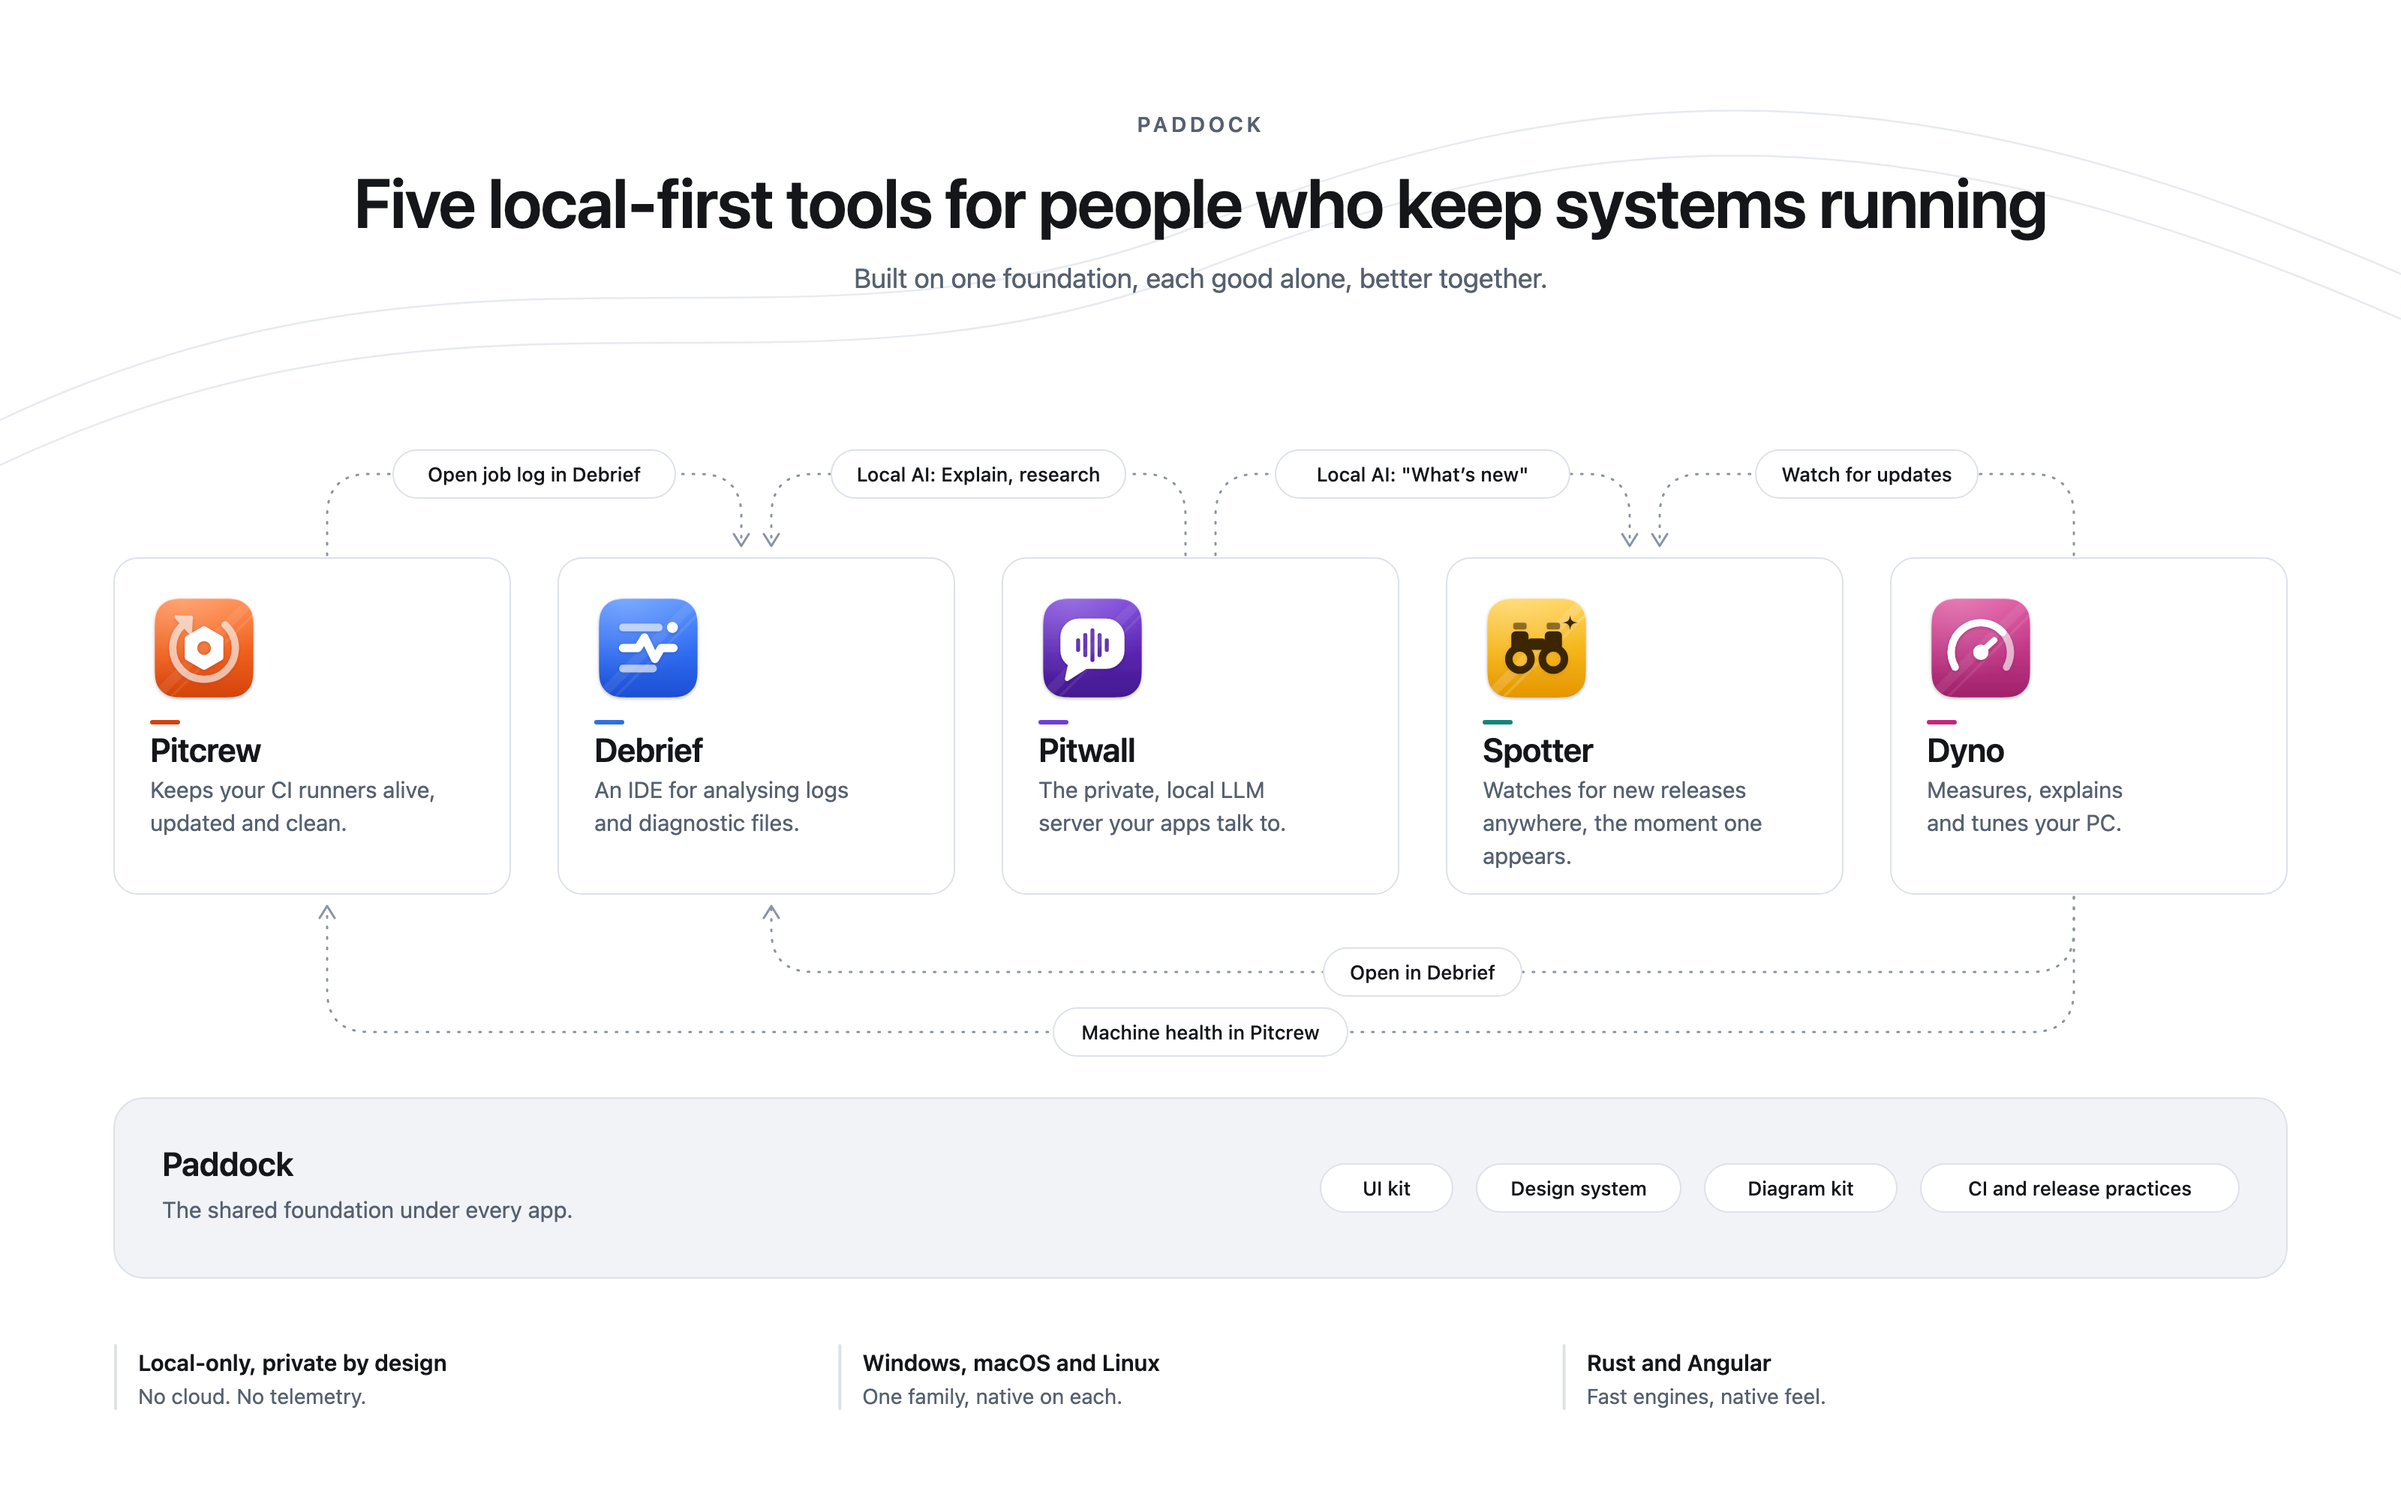
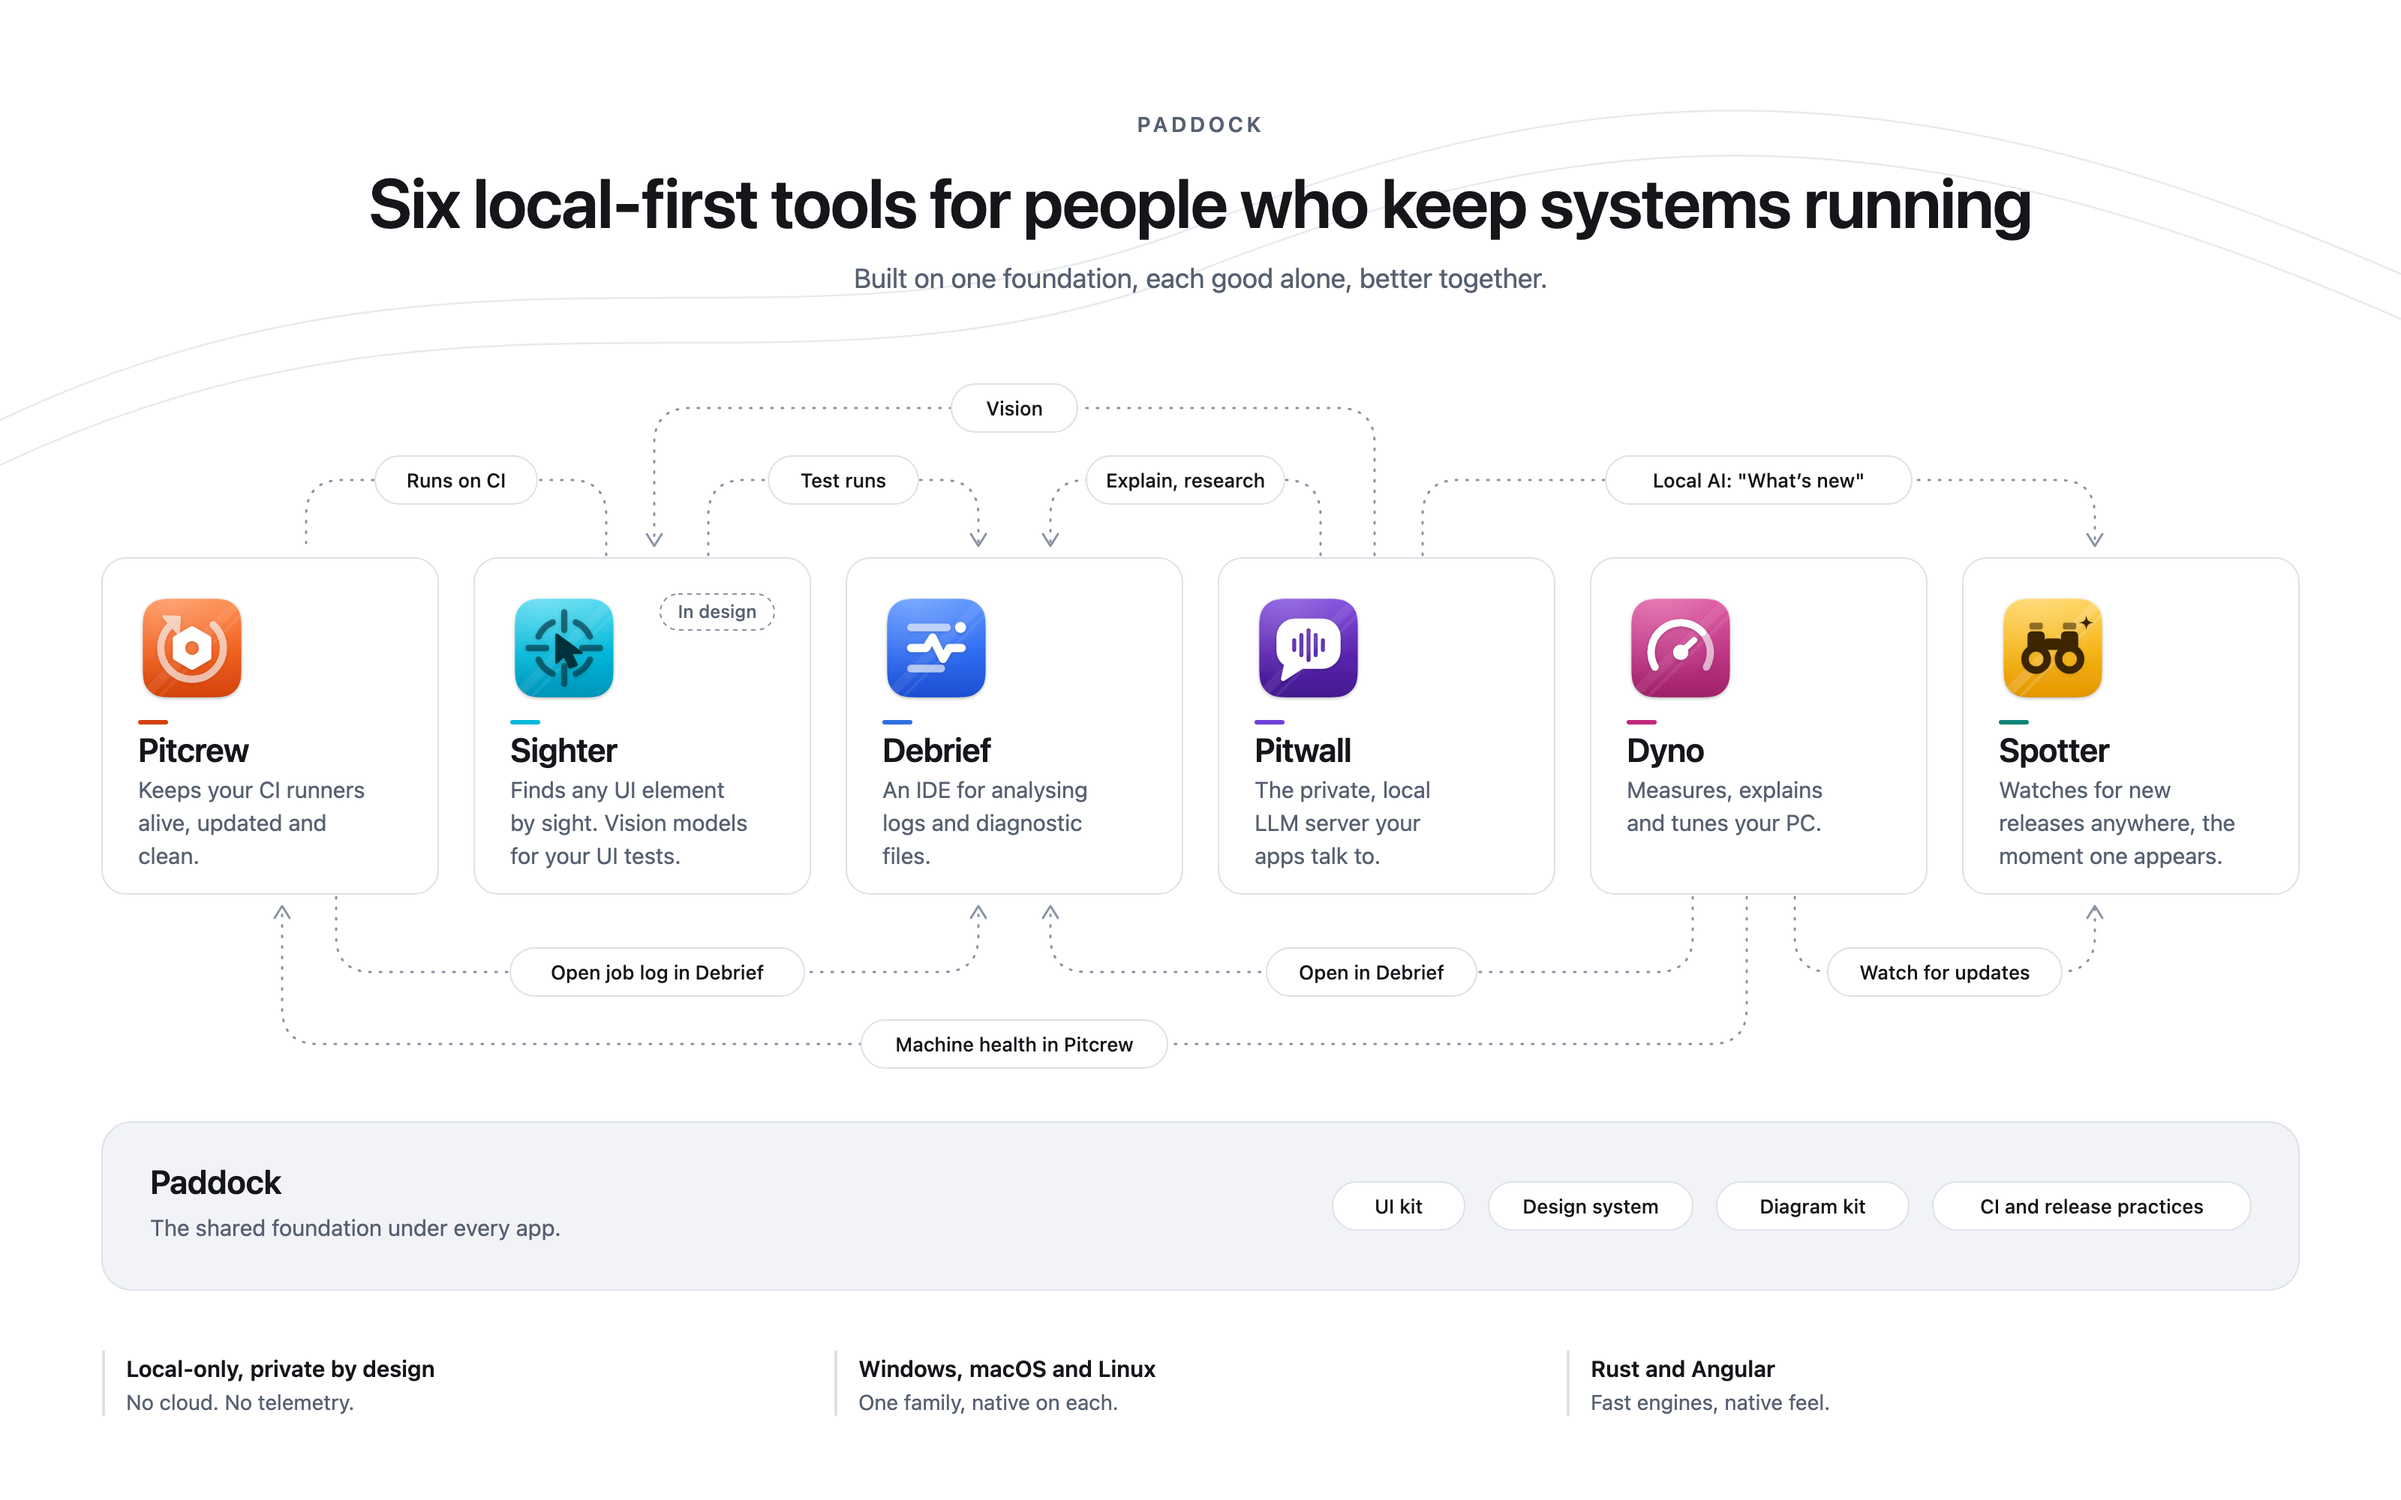
docs: add Sighter to the ecosystem image and overview [skip ci]

diff --git a/docs/ecosystem.md b/docs/ecosystem.md
@@ -1,10 +1,10 @@
 # The Paddock family
 
 <picture>
-  <img src="images/paddock-ecosystem.svg" alt="Paddock: Pitcrew, Debrief, Pitwall, Spotter and Dyno, five local-first apps connected by a few hand-offs and built on the shared Paddock foundation" width="100%">
+  <img src="images/paddock-ecosystem.svg" alt="Paddock: Pitcrew, Sighter, Debrief, Pitwall, Dyno and Spotter, six local-first apps connected by a few hand-offs and built on the shared Paddock foundation" width="100%">
 </picture>
 
-Five desktop apps for people who keep systems running, built on one shared foundation. Each is useful alone and better
+Six desktop apps for people who keep systems running, built on one shared foundation. Each is useful alone and better
 with the others. All run on **Windows, macOS and Linux**, are written in Rust with a Tauri shell and an Angular UI, and
 are **local only**: no cloud, no account, no telemetry.
 
@@ -38,6 +38,15 @@ The private, local LLM server your apps talk to. For anyone who wants AI in thei
 
 Repo: <https://dev.decryptology.net/decryp7/pitwall> · Status: in development.
 
+### Sighter
+Finds any UI element by sight. Record, label and train vision models that your UI tests can query. For engineers who test
+or automate desktop apps, including legacy ones with no accessibility tree.
+- Works from pixels alone, so custom-drawn UIs, remote sessions and old tools are covered.
+- A recorder, a labelling and training studio, and a local server your test scripts call.
+- Run bundles (video plus steps) that open next to the app's logs in Debrief.
+
+Repo: <https://dev.decryptology.net/decryp7/sighter> · Status: **in design**.
+
 ### Dyno
 Measures, explains and tunes your PC. For people who want to know why their machine is slow, and to fix it safely.
 - A background agent keeps history while the window is closed.
@@ -60,8 +69,11 @@ Repo: <https://dev.decryptology.net/decryp7/spotter> · Status: in development.
 | From | To | What |
 |---|---|---|
 | Pitwall | Debrief | Local AI for "Explain" and research |
+| Pitwall | Sighter | Vision for finding UI elements |
 | Pitwall | Spotter | Local AI for "What's new" summaries |
 | Pitcrew | Debrief | "Open job log in Debrief" |
+| Sighter | Debrief | Test runs: video plus steps, alongside the app's logs |
+| Sighter | Pitcrew | Runs on CI, on the runners Pitcrew keeps alive |
 | Dyno | Spotter | "Watch for updates" from the software inventory |
 | Dyno | Debrief | "Open in Debrief" for issues |
 | Dyno | Pitcrew | Machine health shown next to the runners |

diff --git a/README.md b/README.md
@@ -1,12 +1,12 @@
 # paddock
 
 <p align="center">
-  <a href="docs/ecosystem.md"><img src="docs/images/paddock-ecosystem.svg" alt="Paddock: Pitcrew, Debrief, Pitwall, Spotter and Dyno, five local-first apps built on one shared foundation" width="100%"></a>
+  <a href="docs/ecosystem.md"><img src="docs/images/paddock-ecosystem.svg" alt="Paddock: Pitcrew, Sighter, Debrief, Pitwall, Dyno and Spotter, six local-first apps built on one shared foundation" width="100%"></a>
 </p>
 
 <p align="center"><a href="docs/ecosystem.md">Meet the family</a></p>
 
-Everything the Paddock app family shares: **Debrief, Pitcrew, Pitwall, Dyno, Spotter**. One repo, one semver tag
+Everything the Paddock app family shares: **Debrief, Pitcrew, Pitwall, Dyno, Spotter, Sighter**. One repo, one semver tag
 (`v0.1.0`, ...) that versions every part together.
 
 | Part | Path | What | How apps consume it |
